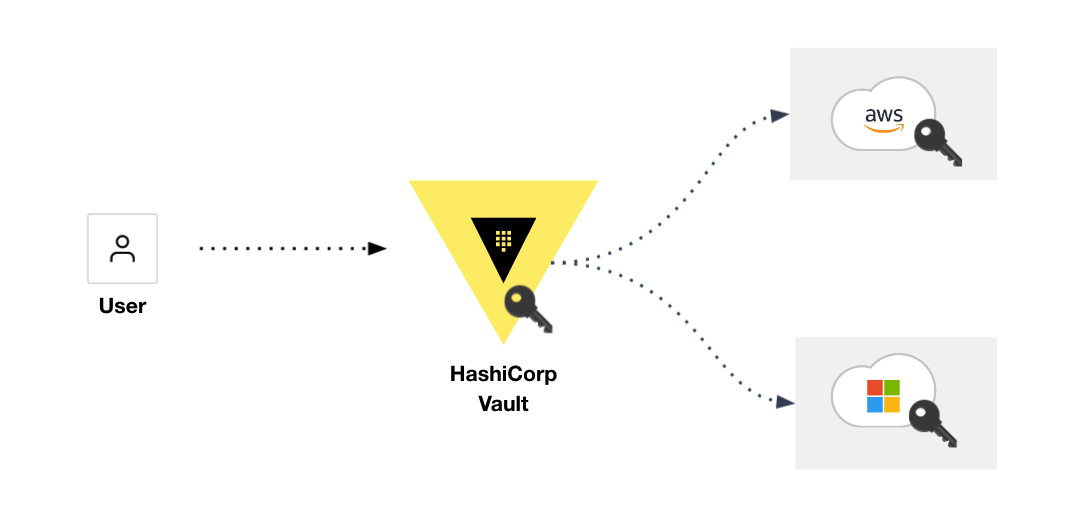
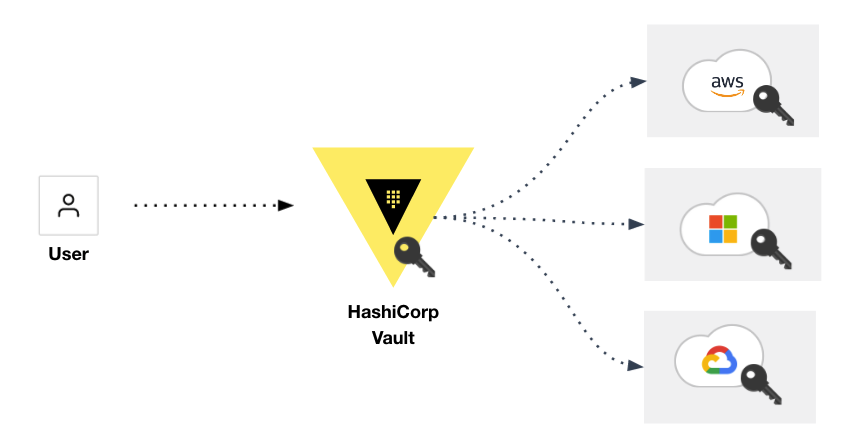
updated diagram, typo

diff --git a/README.md b/README.md
@@ -2,8 +2,9 @@
 This repo shows an example workflow for the KMS Secrets Engine with different cloud providers key management solutions as a backend.
 
 Example workflows
-- [Azure Key Vault](Azure-Key-Vault-Workflow.md)
 - [AWS KMS](AWS-KMS-Vault-Workflow.md)
+- [Azure Key Vault](Azure-Key-Vault-Workflow.md)
+- [GCP KMS Keyring](GCP-KMS-Vault-Workflow.md)
 
 ## Diagram
 ![Screenshot](images/diagram.png)

diff --git a/GCP-KMS-Vault-Workflow.md b/GCP-KMS-Vault-Workflow.md
@@ -19,7 +19,7 @@ Generate a demo key
 - Inspect the demo key.
 - Use the demo key from HashiCorp Vault to encrypt a value.
 
-Example workflow using both HashiCorp Vault and GCP Kingring
+Example workflow using both HashiCorp Vault and GCP Keyring
 - Distribute the demo key to the GCP KMS Keyring.
 - Use the `gcloud` cli to decrypt a value.
 
